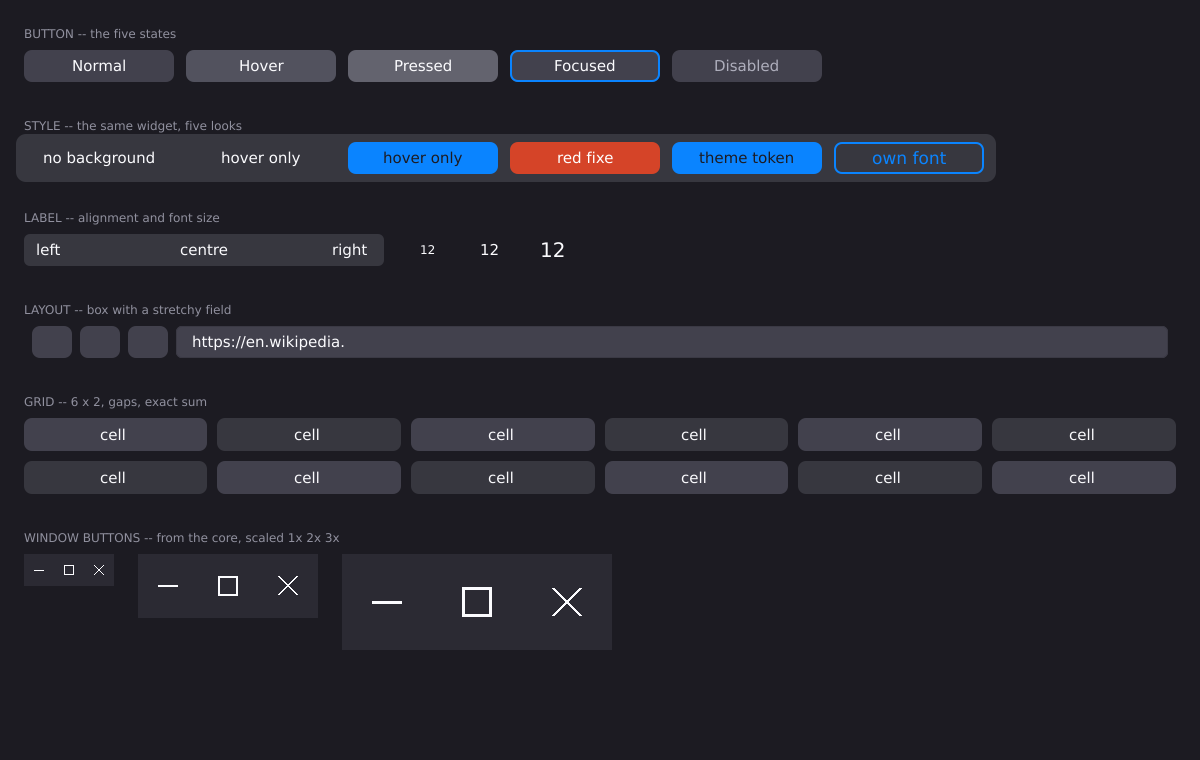
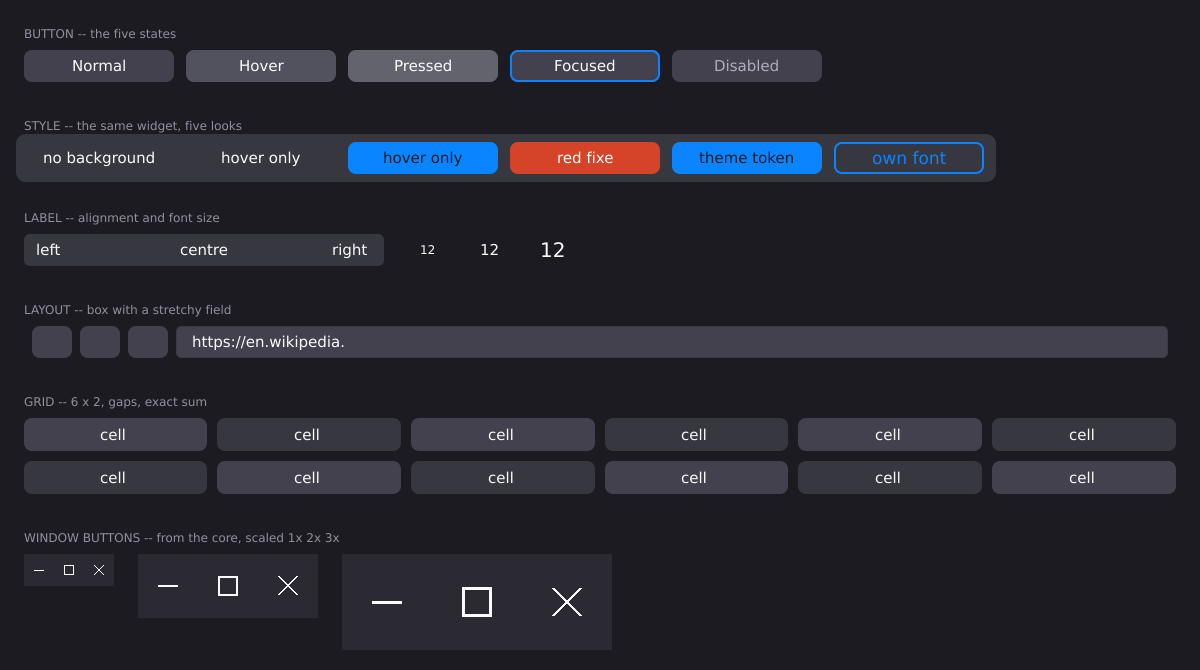
Belege: die Demo-Anwendung kommt in den Satz, 01..04 nachgezogen
19/20-demo-app-{hell,dunkel}.png zeigen, dass flex, anim und effect
einen Aufrufer ausserhalb ihrer eigenen Pruefung haben -- die Tabelle in
RUN.md sagt, welcher Messlatte-Punkt an welchem Bild haengt.

01..04 sind neu aus dem Lauf gezogen: gallery_main.fi und
gallery2_main.fi schneiden das Bild jetzt auf den erreichten Inhalt zu
(760 -> 670 bzw. 1180 -> 938), und im hellen Schema heben sich die
Flaechen von Panel, Gitterzellen und Kacheln wieder vom Seitengrund ab.

diff --git a/RUN.md b/RUN.md
@@ -227,7 +227,7 @@ Set `BELEGE` to put them somewhere else. If that directory cannot be
 created or written, the run says so and exits non-zero; it does not
 print `ALL CHECKS PASSED` with pictures missing.
 
-The same eighteen files are checked in under `.gauntlet-shots/`, light
+The same twenty files are checked in under `.gauntlet-shots/`, light
 and dark for each, numbered in reading order. Which picture carries
 which point of the acceptance bar:
 
@@ -242,6 +242,7 @@ which point of the acceptance bar:
 | `13/14-flex-{hell,dunkel}.png` | `gallery6_main.fi` | bar 4: several flex variants side by side with correct gaps (justify, align-self, wrap, align-content, grow/shrink) |
 | `15/16-effekt-blur-glas-{hell,dunkel}.png` | `gallery7_main.fi` | bar 4: soft shadows with a visible gradient (no hard edge), glass/backdrop blur over a patterned ground, colour matrix |
 | `17/18-transform-{hell,dunkel}.png` | `gallery8_main.fi` | bar 4: rotated and scaled widgets with clean edges (no stair-stepping) |
+| `19/20-demo-app-{hell,dunkel}.png` | `demos/fuidemo/main.fi` | bar 2: the three new modules have a caller OUTSIDE their own check -- title bar and tool bar distributed by `flex.flex_layout` (grow on the field, measured through `render.pref_of`), the hover transition of a button driven by `anim.Animator` in seven labelled phases, the dialog shadow from `effect.drop_shadow_spread` |
 
 The set is refreshed from the run with
 
